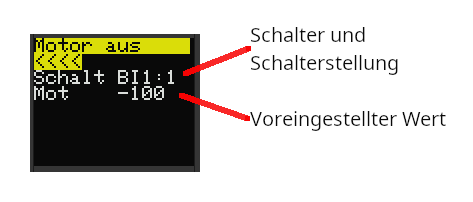
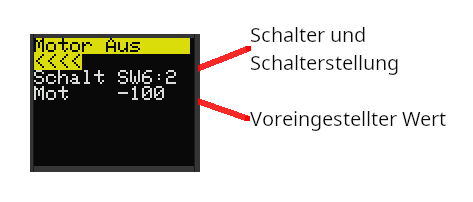
Doc. updated. Minor changes. V0.5.18

Changed region(s): [[0.2664, 0.3267, 0.444, 0.4158], [0.2072, 0.2079, 0.2664, 0.2673], [0.3552, 0.4455, 0.4144, 0.505]]

diff --git a/TXos/esp32/InputImpl.cpp b/TXos/esp32/InputImpl.cpp
@@ -107,15 +107,16 @@ channelValue_t InputImpl::GetAuxValue( channel_t ch) {
 
 channelValue_t InputImpl::GetAnalogValue( channel_t ch) {
 
-    channelValue_t v[3];
+    channelValue_t v = 0;
+#define ADC_OVERSAMPLING 3
 
     if( ch < adcInputs) {
 
-        for( uint8_t i=0; i<3; i++) {
-            v[i] = analogRead( analogPins[ch]);
+        for( uint8_t i=0; i<ADC_OVERSAMPLING; i++) {
+            v += analogRead( analogPins[ch]);
         }
 
-        return (v[0]+v[1]+v[2]) / 3;
+        return v / ADC_OVERSAMPLING;
     }
 
     LOGV("InputImpl::GetStickValue: Illegal channel no. %d", ch);

diff --git a/src/modules/ChannelRange.cpp b/src/modules/ChannelRange.cpp
@@ -68,9 +68,9 @@ void ChannelRange::run( Controls &controls) {
         if( in < PORT_ANALOG_INPUT_COUNT) {
             v = controls.logicalGet( ch);
             if( v > 0) {
-                v = v * CFG->posRange_pct[in] / PERCENT_MAX_LIMIT;
+                v = v * CFG->posRange_pct[in] / (PERCENT_MAX_LIMIT);
             } else if( v < 0) {
-                v = v * CFG->negRange_pct[in] / PERCENT_MIN_LIMIT;
+                v = v * CFG->negRange_pct[in] / (PERCENT_MIN_LIMIT);
             }
             controls.logicalSet( ch, (channelValue_t)v);
         }

diff --git a/src/modules/ServoMonitor.cpp b/src/modules/ServoMonitor.cpp
@@ -63,7 +63,7 @@ uint8_t ServoMonitor::getColCount( uint8_t row) {
 
 void ServoMonitor::getValue( uint8_t row, uint8_t col, Cell *cell) {
 
-    cell->setInt8( TEXT_OUT_length +1, CHANNEL_TO_PCT ( current.outputGet( row)), 0, 0, PERCENT_MAX_LIMIT);
+    cell->setInt8( TEXT_OUT_length +1, CHANNEL_TO_PCT ( current.outputGet( row)), 0, PERCENT_MIN_LIMIT, PERCENT_MAX_LIMIT);
 }
 
 void ServoMonitor::setValue( uint8_t row, uint8_t col, Cell *cell) {

diff --git a/src/TXos.h b/src/TXos.h
@@ -34,7 +34,7 @@
 #endif
 
 
-#define TXOS_VERSION "0.5.17"
+#define TXOS_VERSION "0.5.18"
 
 #undef ENABLE_LOGGING
 

diff --git a/MANUAL.md b/MANUAL.md
@@ -1,6 +1,6 @@
 # TXos Bedienungsanleitung
 
-Diese Anleitung beschreibt die TXos Version 0.5.9 (August 2025)
+Diese Anleitung beschreibt die TXos Version 0.5.17 (Februar 2026)
 
 ---
 
@@ -44,6 +44,7 @@ Diese Anleitung beschreibt die TXos Version 0.5.9 (August 2025)
 [Dual Rate & Expo](#dual-rate--expo)<br/>
 [Mischer](#mischer)<br/>
 [Motor Aus](#motor-aus)<br/>
+[Motor Start](#motor-start)<br/>
 [Timer](#timer)<br/>
 [Servo Zuordnung](#servo-zuordnung)<br/>
 [Servo Weg](#servo-weg)<br/>
@@ -132,8 +133,8 @@ Die interne Verschaltung der einzelnen Module und deren Verarbeitungsreihenfolge
 
 TXos unterstützt folgende Schalter:
 
-* 2-Stufen Schalter  BIn (BI1,BI2...)
-* 3-Stufen Schalter  TRn (TR3,TR4...)
+* 2-Stufen Schalter  SWn (SW1,SW2...)
+* 3-Stufen Schalter  SWn (SW1,SW2...)
 * Geberschalter oder Kanalschalter CSn (CS1,CS2...)
 * Logische Schalter: LSn (LS1,LS2...)
 * “Immer Ein” Schalter: ON1
@@ -142,7 +143,7 @@ TXos unterstützt folgende Schalter:
 Eine bestimmte Schalterstellung wird mit angehängtem Doppelpunkt und der Schalterposition angegeben.
 
 Beispiel: 2-stufen Schalter 1 in Schalterstellung 0<br/>
-**BI1:0**
+**SW1:0**
 
 ---
 ## Hauptbildschirm
@@ -167,7 +168,7 @@ Die Systemeinstellungen sind über den Menüpunkt "Systemeinstellungen" im Model
 ### Modellauswahl
 [Inhalt](#inhalt)
 
-Ein Arduino mit Mega 2560 Prozessor hat genügend Speicherkapazität für 14 Modelle.
+Ein Arduino mit Mega 2560 Prozessor hat genügend Speicherkapazität für 10 Modelle.
 
 Wählen Sie unter "Modellauswahl" das entsprechende Modell aus und drücken Sie ENTER.
 
@@ -218,7 +219,7 @@ Dazu zählen die Hardware-Schalter, sowie logische Schalter und Phasenschalter.
 
 #### Benennung der Schalter
 
-* Hardware Schalter. Die Schalternamen bestehen aus einer Typbezeichnung (BI für 2-Stufen Schalter, TR für 3-Stufen Schalter) und einer fortlaufenden Nummer.
+* Hardware Schalter. Die Schalternamen bestehen aus einer Typbezeichnung (SW für "Switch") und einer fortlaufenden Nummer.
 * Geberschalter. Die Schalternamen sind "CS" und eine fortlaufende Nummer.
 * Logische Schalter. Logische Schalter sind Verknüpfungen von bis zu 3 anderen Schaltern. Die Schalternamen sind "LS" und eine fortlaufende Nummer.
 * Immer EIN Schalter. Dieser Schalter ist fix und kann dazu verwendet werden eine Funktion fest ein zu schalten. Der Name ist "ON". Der Zustand ist immer "1".
@@ -235,6 +236,8 @@ Mit dem Drück-Dreh Steller können Sie nach unten Scrollen um weitere Schalter 
 TXos ünterstützt 2 Relais. Ein Relais dient dazu das HF Modul auszuschalten. Ein weiteres kann einen "Bind" Taster betätigen.
 
 Je nach Sendemodul kann damit von TXos aus der Bindemodus ein- und ausgeschalten werden.
+
+Die Model ID wird nur in Verbindung mit dem seriellen Spektrum HF-Modul für die "Model Match" Funktion verwendet.
 
 ![Empf. binden](img/TXos_bind.png "Empf. binden")
 
@@ -298,12 +301,12 @@ Starten sie die Kalibrierung mit ENTER nachdem Sie "Start" ausgewählt haben.
 
 ![TXos Kalibrieren 1](img/TXos_callib_1.png "TXos Kalibrieren 1")
 
-Das Display zeigt jetzt "CENTER" an. Bewegen Sie alle Kreuzknüppel und Potertiometer in die Mittelstellung.
-Danch drücken Sie nochmals ENTER.
+Das Display zeigt jetzt "Mitte" an. Bewegen Sie alle Kreuzknüppel und Potertiometer in die Mittelstellung.
+MitteDanch drücken Sie nochmals ENTER.
 
 ![TXos Kalibrieren 2](img/TXos_callib_2.png "TXos Kalibrieren 2")
 
-Das Display zeigt jetzt "MIN/MAX" an. Bewegen Sie alle Kreuzknüppel und Potertiometer in beide Endstellungen.
+Das Display zeigt jetzt "Min/Max" an. Bewegen Sie alle Kreuzknüppel und Potertiometer in beide Endstellungen.
 Danach drücken Sie ENTER.
 
 Vergessen Sie dabei nicht die Linearschieber und Potentiometer. Durch drehen des Drück-Dreh Stellers können Sie weitere Eingabekanäle anzeigen.
@@ -497,7 +500,11 @@ Einstellungen bei einem neuen Modell:
 
 TXos unterstützt bis zu drei Flugphasen.
 
-In diesem Menüpunkt wird der Schalter sowie die Namen der Flugphasen eingestellt.
+In diesem Menüpunkt werden die Schalter sowie die Namen der Flugphasen zugeteilt.
+
+Sind keine Schalter zugewiesen bzw. ist kein Schalter aktiv, ist immer die Phase 0 aktiviert.
+
+Sind Schalter für mehrere Phasen aktiviert, ist immer die Phase mit der höchsten Nummer aktiv.
 
 Verfügbare Flugphasen sind:
 * Normal
@@ -537,6 +544,11 @@ Folgende Verknüpfungen sind möglich:<br/>
 * A | B | C
 * (A & B) | C
 * (A | B) & C
+
+Zusätzlich kann jeder Eingang invertiert werden.
+
+Im folgenden Beispiel is der Logikschalter LS1 aktiv wenn
+SW1 auf Position 1 und SW2 NICHT auf Position 1 stehen.
 
 ![Logikschalter](img/TXos_logic_switches.png "Logikschalter")
 
@@ -584,20 +596,57 @@ Bei aktivierter "Motor Aus" Funktion wird auf dem Hauptbildschirm ein grünes "M
 ![Motor Aus2](img/TXos_main.png "Motor Aus2")
 
 ---
+### Motor Start
+[Inhalt](#inhalt)
+
+Die Motor Start Funktion erleichtert das Starten eines Elektroseglers. Insbesondere für Piloten die mit dem Wurfarm auch gleichzeitig den Gaskanal bedienen.
+
+Indem der Motor Anlauf um eine bestimmte Zeit verzögert wird, kann der Pilot mit der anderen Hand Gas geben und hat danach noch genügend Zeit die Fernsteuerung richtig zu greifen.
+
+Der Ablauf ist wie folgt:
+
+* Motor Aus Funktion deaktivieren.
+* Motor Start Funktion aktivieren.
+* Gas geben
+* Für die Vorlaufzeit wird das Gas auf -100% gehalten. Der Motor läuft nicht an.
+* Nach der Vorlaufzeit wird der Gaskanal verzögert auf den aktuellen Wert gebracht. Die Verzögerungszeit gilt von -100% zu 100%.
+* Die Motor Start Funktion wird automatisch deaktiviert.
+
+Bitte Beachten: Die Motor Start Funktion kann aus Sicherheitsgründen nicht aktiviert werden wenn die Motor Aus Funktion aktiviert ist.
+
+Eine aktive Motor Start Funktion kann mit aktivieren der Motor Aus Funktion deaktiviert werden.
+
+Im folgenden Beispiel bedeutet:
+
+* Phase Normal<br/>Die Motor Start Funktion kann nur in der Phase Normal aktiviert werden.
+* Aktiv SW4:1<br/>Die Motor Start Funktion wird aktiviert wenn der Schalter SW4 auf Position 1 geschalten wird. Am sinnvollsten ist es hier einen Taster zu verwenden.
+* Ausloes. -90<br/>Die Start Sequenz läuft an, wenn der Gasheben über das Auslöseschwelle von -90% bewegt wird.
+* Vorlauf 2.0<br/>Die Vorlaufzeit nach dem Starten der Sequenz in der nichts passiert.
+* Verz. 2.0<br/>Der Motor läuft innerhalb von 2 Sekunden bis zur aktuellen Gasposition, danach wird die Motor Start Funktion automatisch deaktiviert.
+
+![Motor Aus](img/TXos_motor_start.png "Motor Start")
+
+Die aktivierte Motor Start Funktion wird mit einem roten "Start" angezeigt.
+
+![Motor Aus](img/TXos_motor_start_1.png "Motor Start Aktiv")
+
+---
 ### Timer
 [Inhalt](#inhalt)
 
 Auf dem Hauptbildschirm wird eine abwärts zählende Uhr angezeigt. Der Startwert und der Aktivierungsschalter kann in diesem Menu eingestellt werden.
 
+Wird die Option "Gasabhängig" eingeschaltet, verlangsamt sich die Ablaufzeit entsprechend der Position des Gasknüppels.
+
 ![Timer](img/TXos_flight_timer.png "Timer")
 
 Tipp: Programmierung eines Timers mit Motor Stopp Funktion
 
-Schalter BI1 soll in Stellung 1 die “Motor Aus” Funktion aktivieren und der Timer soll nur laufen wenn BI1 auf 0 steht und der Gas Knüppel über -90% steht.
+Schalter SW1 soll in Stellung 1 die “Motor Aus” Funktion aktivieren und der Timer soll nur laufen wenn SW1 nicht auf 1 steht und der Gas Knüppel über -90% steht.
 
 1) Menü: Modelleinstell. => Motor aus<br/>
-Schalt auswählen, ENTER drücken und Schalter BI1 auswählen<br/>
-Den Schalter BI1 auf Stellung 1 schalten, dann nochmal ENTER drücken.<br/>
+Schalt auswählen, ENTER drücken und Schalter SW1 auswählen<br/>
+Den Schalter SW1 auf Stellung 1 schalten, dann nochmal ENTER drücken.<br/>
 Kanal Mot auf -100% stellen
 
 ![Timer1](img/TXos_timer_prog1.png "Timer1")
@@ -610,15 +659,16 @@ Der Schalter CS1 schaltet jetzt auf 1 wenn der Gasknüppel über -90% bewegt wir
 ![Timer2](img/TXos_timer_prog2.png "Timer2")
 
 3) Menü: Modelleinstell. => Logikschalter<br/>
-Der Logikschalter LS1 soll auf 1 schalten wenn BI1 auf 0 steht und CS1 auf 1.<br/>
-LS1 auf A&B stellen<br/>
-A auf BI1:0 stellen   (Dazu muss der Schalter BI1 auf Stellung 0 bewegt werden)<br/>
-B auf CS1:1 stellen   (Dazu muss der Gasknüppel auf > -90% bewegt werden)<br/>
+Der Logikschalter LS1 soll auf 1 schalten, wenn SW1 nicht auf 1 steht und CS1 auf 1.<br/>
+* LS1 auf A&B stellen
+* A auf Sw1:1 stellen   (Dazu muss der Schalter SW1 auf Stellung 1 bewegt werden)
+* A invertieren. (Von = auf <> umstellen)
+* B auf CS1:1 stellen   (Dazu muss der Gasknüppel auf > -90% bewegt werden)
 
 ![Timer3](img/TXos_timer_prog3.png "Timer3")
 
 4) Menü: Modelleinstell. => Timer<br/>
-Schalt auf LS1:1 stellen   (Dazu muss Schalter BI1 auf 0 stehen und Gasknüppel > -90%)<br/>
+Schalt auf LS1:1 stellen   (Dazu muss Schalter SW1 auf 0 stehen und Gasknüppel > -90%)<br/>
 Zeit auf die gewünschte Zeit einstellen.
 
 ![Timer4](img/TXos_timer_prog4.png "Timer4")
@@ -691,4 +741,3 @@ Bereich: -125 % bis +125 %<br/>
 Einstellung bei einem neuen Modell: +/- 125 %
 
 ![Servo Limit](img/TXos_servo_limit.png "Servo Limit")
-

diff --git a/README.md b/README.md
@@ -29,7 +29,7 @@ Please obey the license.
 ### Arduino CPU Board
 
 - Joy-IT ADR MEGA2560PRO
-- ESP32 DevKit 38 Pin (THIS IS EXPERIMENTAL)
+- ESP32 DevKit (EXPERIMENTELL UND UNGETESTED, NICHT BENUTZEN!)
 
 ### Display
 
@@ -45,7 +45,7 @@ Please obey the license.
 
 ### Seriell angesteuerte HF-Module
 
-<span style="color:red">Achtung: noch nicht vollständig getestet.</span>
+<span style="color:red">Achtung: EXPERIMENTELL UND UNGETESTED, NICHT BENUTZEN!</span>
 
 - Spektrum X1TXN
 - ELRS Full Duplex (interne Module) Bzw. Empfänger mit RxAsTx Firmware.
@@ -123,6 +123,7 @@ Please obey the license.
 ## Change History
 
 ```
+0.5.18
 0.5.17 Disable sleep. Fix input names array.
 0.5.16 CRSF Protokol
 0.5.15 Serielles Spektrum Protokol
@@ -155,7 +156,6 @@ Please obey the license.
 Benötigte Arduino Libraries
 - Adafruit ST7736 and ST7789 Library
 - Adafruit GFX Library
-- TO_BE_COMPLETED
 
 ```
 cd TXos
@@ -172,11 +172,10 @@ Notwendige Einstellungen der Arduino IDE
 
 TO_BE_COMPLETED
 
-#### Für ESP32 (WARNING: EXPERMENTAL)
+#### Für ESP32 (EXPERIMENTELL UND UNGETESTED, NICHT BENUTZEN!)
 
 Benötigte Arduino Libraries
 - TFT_eSPI
-- TO_BE_COMPLETED
 
 ```
 cd TXos
